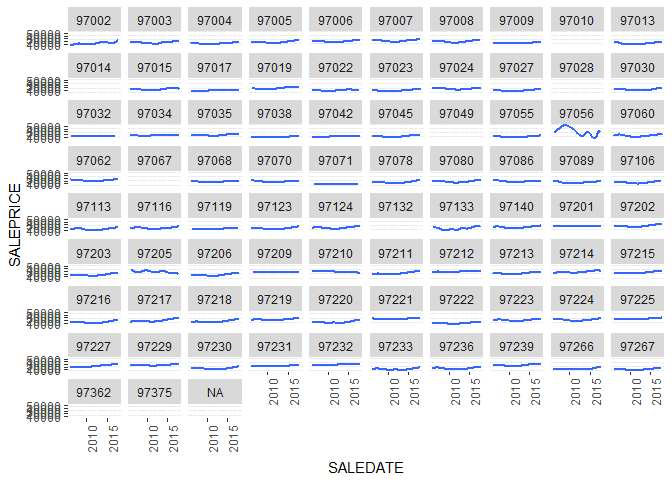
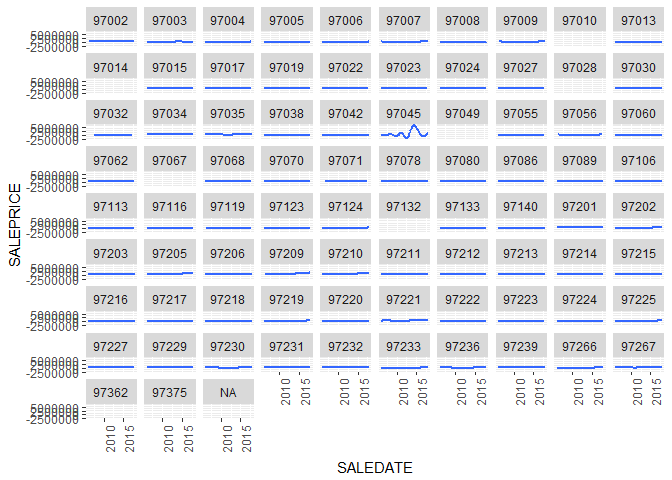
fix sale price mutation boondoggle

Changed region(s): [[0.0312, 0.0, 1.0, 0.9375], [0.5, 0.9375, 0.625, 1.0]]

diff --git a/taxlot.md b/taxlot.md
@@ -6,21 +6,14 @@ April 22, 2018
 ``` r
 library(tidyverse)
 library(rgdal)
-```
-
-    ## Warning: package 'rgdal' was built under R version 3.4.4
-
-    ## Warning: package 'sp' was built under R version 3.4.4
-
-``` r
 library(lubridate)
 library(ggmap)
+library(broom)
 ```
 
-    ## Warning: package 'ggmap' was built under R version 3.4.4
-
 ``` r
-library(broom)
+#load a map of portland centered on the burnside bridge
+map <- get_map(location="Burnside Bridge", zoom = 9, maptype="roadmap")
 ```
 
 ``` r
@@ -64,16 +57,14 @@ taxlot_data <- taxlots@data %>%
 #drop the plus four from zipcode
   select(-`+4`) %>%
 #coerce sale price to numeric
-  mutate(SALEPRICE = as.numeric(SALEPRICE)) %>%
+  mutate(SALEPRICE = as.numeric(as.character(SALEPRICE))) %>%
 #filter to interesting data
   filter(SALEDATE >= filter_dates[1] & SALEDATE <= filter_dates[2]) %>%
   filter(LANDUSE == "SFR") %>%
+  filter(SALEPRICE > 100) %>%
 #recode the county factor
   mutate(COUNTY = fct_recode(COUNTY, Clackamas="C", Washington="W", Multnomah="M"))
 ```
-
-    ## Warning: Too few values at 143859 locations: 1, 2, 3, 4, 5, 6, 7, 8, 9, 10,
-    ## 11, 12, 13, 14, 15, 16, 17, 18, 19, 20, ...
 
 ``` r
 #create list of relevant zipcodes
@@ -100,14 +91,6 @@ total_tax <- taxlot_data %>%
   group_by(year, zip) %>%
   summarise(med_price = median(SALEPRICE)) %>%
   right_join(zip_df, by=c("zip"="ZCTA5CE10"))
-```
-
-    ## Warning: Column `zip`/`ZCTA5CE10` joining character vector and factor,
-    ## coercing into character vector
-
-``` r
-#load a map of portland centered on the burnside bridge
-map <- get_map(location="Burnside Bridge", zoom = 9, maptype="roadmap")
 ```
 
 ``` r
@@ -141,30 +124,6 @@ taxlot_map_2017 <- plottr(2017)
 #display graph and maps
 price_zip_timeseries
 ```
-
-    ## Warning: Computation failed in `stat_smooth()`:
-    ## x has insufficient unique values to support 10 knots: reduce k.
-
-    ## Warning: Computation failed in `stat_smooth()`:
-    ## x has insufficient unique values to support 10 knots: reduce k.
-
-    ## Warning: Computation failed in `stat_smooth()`:
-    ## x has insufficient unique values to support 10 knots: reduce k.
-
-    ## Warning: Computation failed in `stat_smooth()`:
-    ## x has insufficient unique values to support 10 knots: reduce k.
-
-    ## Warning: Computation failed in `stat_smooth()`:
-    ## x has insufficient unique values to support 10 knots: reduce k.
-
-    ## Warning: Computation failed in `stat_smooth()`:
-    ## x has insufficient unique values to support 10 knots: reduce k.
-
-    ## Warning: Computation failed in `stat_smooth()`:
-    ## x has insufficient unique values to support 10 knots: reduce k.
-
-    ## Warning: Computation failed in `stat_smooth()`:
-    ## x has insufficient unique values to support 10 knots: reduce k.
 
 ![](taxlot_files/figure-markdown_github/unnamed-chunk-8-1.png)
 
